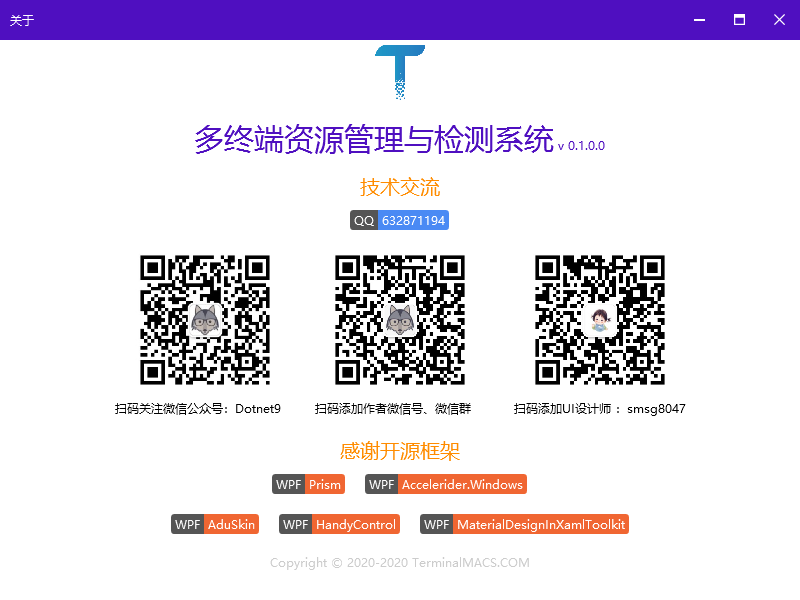
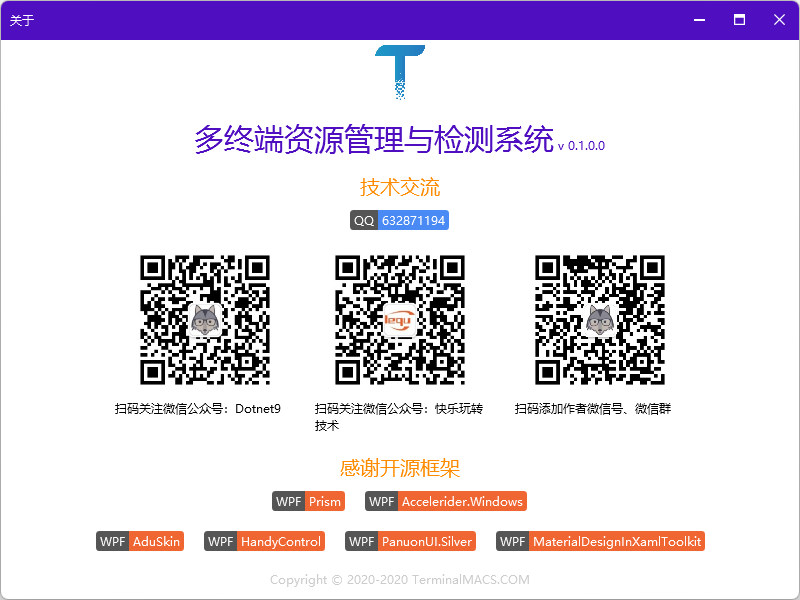
update base info;

diff --git a/src/TerminalMACS/Views/CusSplashScreen.xaml b/src/TerminalMACS/Views/CusSplashScreen.xaml
@@ -16,9 +16,9 @@
         <Rectangle x:Name="freeRect" Fill="{StaticResource freeMachineImageBrush}"
                    Height="48" Width="128" Canvas.Left="186" Canvas.Top="20" />
         <TextBlock x:Name="tbMsg" FontSize="20" Canvas.Left="10" />
-        <TextBlock x:Name="tb1" Text="8866" FontSize="20" Canvas.Left="200" Canvas.Top="120" Width="1262" />
-        <TextBlock x:Name="tb2" Text="2333哈哈哈哈" FontSize="20" Canvas.Left="800" Canvas.Top="80" Width="1262" />
-        <TextBlock x:Name="tb3" Text="66666                                                                 再接再厉"
+        <TextBlock x:Name="tb1" Text="关注微信公众号：Dotnet9" FontSize="20" Canvas.Left="200" Canvas.Top="120" Width="1262" />
+        <TextBlock x:Name="tb2" Text="联系微信号：d9tools" FontSize="20" Canvas.Left="800" Canvas.Top="80" Width="1262" />
+        <TextBlock x:Name="tb3" Text="关注微信公众号：快乐玩转技术"
                    FontSize="20" Canvas.Left="450" Canvas.Top="160" Width="1262" />
         <!-- Canvas.Left="122"-->
     </Canvas>

diff --git a/src/TerminalMACS/Views/About.xaml b/src/TerminalMACS/Views/About.xaml
@@ -56,6 +56,19 @@
                 </Grid.RowDefinitions>
                 <Border Margin="30 5" Height="150" Width="150" CornerRadius="10" HorizontalAlignment="Center">
                     <Border.Background>
+                        <ImageBrush ImageSource="/Images/lequ.co.jpg" />
+                    </Border.Background>
+                </Border>
+                <TextBlock Grid.Row="1" Text="扫码关注微信公众号：快乐玩转技术"
+                           Width="170" TextWrapping="WrapWithOverflow" HorizontalAlignment="Center" />
+            </Grid>
+            <Grid Width="200">
+                <Grid.RowDefinitions>
+                    <RowDefinition />
+                    <RowDefinition />
+                </Grid.RowDefinitions>
+                <Border Margin="30 5" Height="150" Width="150" CornerRadius="10" HorizontalAlignment="Center">
+                    <Border.Background>
                         <ImageBrush ImageSource="/Images/mynewwechat.jpg" />
                     </Border.Background>
                 </Border>

diff --git a/README.md b/README.md
@@ -6,15 +6,13 @@
 
 <h1 align="center">TerminalMACS</h1>
 
-一个使用 Prism 作为模块化框架、基于多个开源控件库作为UI控件选择、集成开源 UI 界面设计的 .NET 5 WPF 客户端项目。
-
-[English](./README.md) | 简体中文
+一个使用 Prism 作为模块化框架、基于多个开源控件库作为UI控件选择、集成开源 UI 界面设计的 .NET 7 WPF 客户端项目。
 
 ## 1. 特性
 
-- 使用 [.NET 5](https://dotnet.microsoft.com/download/dotnet/5.0?utm_source=dotnet-website&utm_medium=banner&utm_campaign=preview5-banner) 开发，体验最新 .NET 平台（和 .NET Core 3.1 无缝兼容）
+- 使用 [.NET 7](https://dotnet.microsoft.com/zh-cn/) 开发，体验最新 .NET 平台
 
->.NET 5 是 .NET Framework 和 .NET Core 的未来，最终将成为一个统一平台，.NET5将包含ASP.NET核心、实体框架核心、WinForms、WPF、Xamarin 和 ML.NET。
+>.NET是免费，跨平台，开源的，用于构建所有应用的开发人员平台。
 
 - 基于 [Prism 8](https://github.com/PrismLibrary/Prism) 搭建模块化框架，方便程序扩展
 
@@ -36,7 +34,8 @@ ECharts：[pie-doughnut](https://echarts.apache.org/examples/zh/editor.html?c=pi
 
 ## 2. 支持环境
 
-- .NET 5.0。
+- .NET 7.0。
+- Visual Studio 2022
 
 ## 3. 当前版本
 
@@ -44,7 +43,10 @@ ECharts：[pie-doughnut](https://echarts.apache.org/examples/zh/editor.html?c=pi
 
 ## 4. 链接
 
-- 官方网站：[Dotnet9](https://dotnet9.com)
+官方网站
+
+- Dotnet9：[https://dotnet9.com](https://dotnet9.com)
+- 快乐玩转技术：[https://lequ.co](https://lequ.co)
 
 ## 5. 项目界面截图
 
